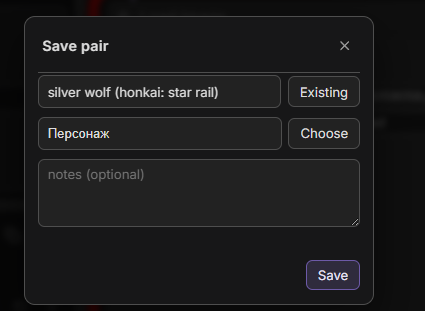
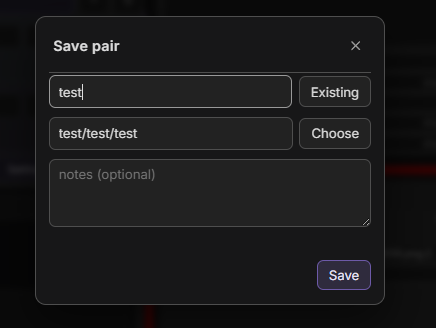
Update README and changelog to reflect nested folder management enhancements
- Revised README to clarify the new nested folder structure for collections and templates, including updated visuals.
- Enhanced changelog to document the addition of nested path functionality and its implications for pair management.
- Added new screenshots to illustrate the nested folder tree and path search features in the manager.

diff --git a/changelog/CHANGELOG.md b/changelog/CHANGELOG.md
@@ -24,8 +24,16 @@ Format: newest first.
 - Paths with `/` for pair collections **and** preset / template folders: `Scene/Walk`, `Looks/Daki` — as deep as you like; folders appear on first save
 - A name with `/` is also a path: `Основа` + `Универсальный/18+` saves as collection `Основа/Универсальный`, name `18+` (same for presets / templates)
 - Type the path by hand (sub-folder hints after `/`, **Tab** completes) or **Choose** → folder browser: crumbs, sub-folders with counts, filter, **+ New folder**
-- **Load pair** opens the group’s root collection (or the loaded pair’s folder) with crumbs + sub-folders; search covers the subtree; `Scene/Walk\rain` filters by path
+
+![Save pair — nested path in collection](../docs/screenshots/2.3.0/1.png)
+
+- **Load pair** opens the group’s root collection (or the loaded pair’s folder) with crumbs + sub-folders; search covers the subtree; `Scene/Walk\rain` or `осн\уни\` filters by path
 - Manager · Prompts / Presets / Templates are trees; **Rename** takes a full path (move a branch), **Delete** removes the branch
+
+![Manager · nested folder tree](../docs/screenshots/2.3.0/1.1.png)
+
+![Manager · path search in the tree](../docs/screenshots/2.3.0/1.2.png)
+
 - **Add group** lists root collections only; Pair browse stays in the current folder unless **Browse nested folders** is on
 - Migration on first start: folder / collection names that already contained `/` become `|` (`A/B` → `A|B`); then names like `test/daki1` or `Универсальный/18+` are split into folder + leaf so existing libraries nest correctly
 - Templates and presets are unique per **folder + name** (same as pairs per collection) — `daki1` can live in `test` and in `Looks` at once
@@ -35,9 +43,7 @@ Format: newest first.
 - Save pair / Save preset / Save template: **Existing** next to the name — pick an already saved name (grouped by collection, filterable) to overwrite it; notes prefilled if empty
 - After a pick the button turns into **Overwrite** (danger); changing the name or collection resets it
 - Same picker in the manager’s **Edit** dialogs (pair / preset / template); manual rename is re-checked on save — if the name is taken you get a warning and an explicit **Overwrite**
-- Uniqueness: pairs by collection + name, presets and templates by name
-
-![Save pair — Existing name picker](../docs/screenshots/2.3.0/1.png)
+- Uniqueness: pairs by collection + name; presets and templates by folder + name
 
 ### Templates: replace or merge
 

diff --git a/README.md b/README.md
@@ -102,7 +102,7 @@ From a group card: store or recall pos/neg under a **group** shelf (defaults to 
 
 **Existing** next to the name lists already saved pairs by collection — pick one to overwrite it (the button turns into **Overwrite**; editing the name or collection resets it).
 
-![Save pair — Existing name picker](docs/screenshots/2.3.0/1.png)
+![Save pair — Existing + nested collection path](docs/screenshots/2.3.0/1.png)
 
 ![Load pair with prompt preview](docs/screenshots/4.png)
 
@@ -176,6 +176,10 @@ Optional wired slot (Settings → **External prompt**). Fixed id, title `Externa
 Shelves are created when you **Save pair**. Those with at least one pair show under **Add group → Groups** (so you can reuse exact names like `Scene255`).
 
 Collections and preset/template folders nest via `/`: `Scene/Walk`, `Looks/Daki`. Type a path in Save (hints after `/`, **Tab** completes) or **Choose** a folder (crumbs, sub-folders, **+ New folder**). Writing `Универсальный/18+` in the name field under `Основа` saves as `Основа/Универсальный` · `18+`. A group named `Scene` opens `Scene` in Load pair with its sub-folders; Add group lists root collections only. Manager **Rename** accepts a full path, so it also moves a branch. Since 2.3.0 `/` is reserved — older folder names with `/` were migrated to `|`, then slash-in-names were split into nested folders. Templates and presets are unique by **folder + name** (pairs by collection + name).
+
+![Manager · nested folder tree](docs/screenshots/2.3.0/1.1.png)
+
+![Manager · path search in the tree](docs/screenshots/2.3.0/1.2.png)
 
 ---
 
